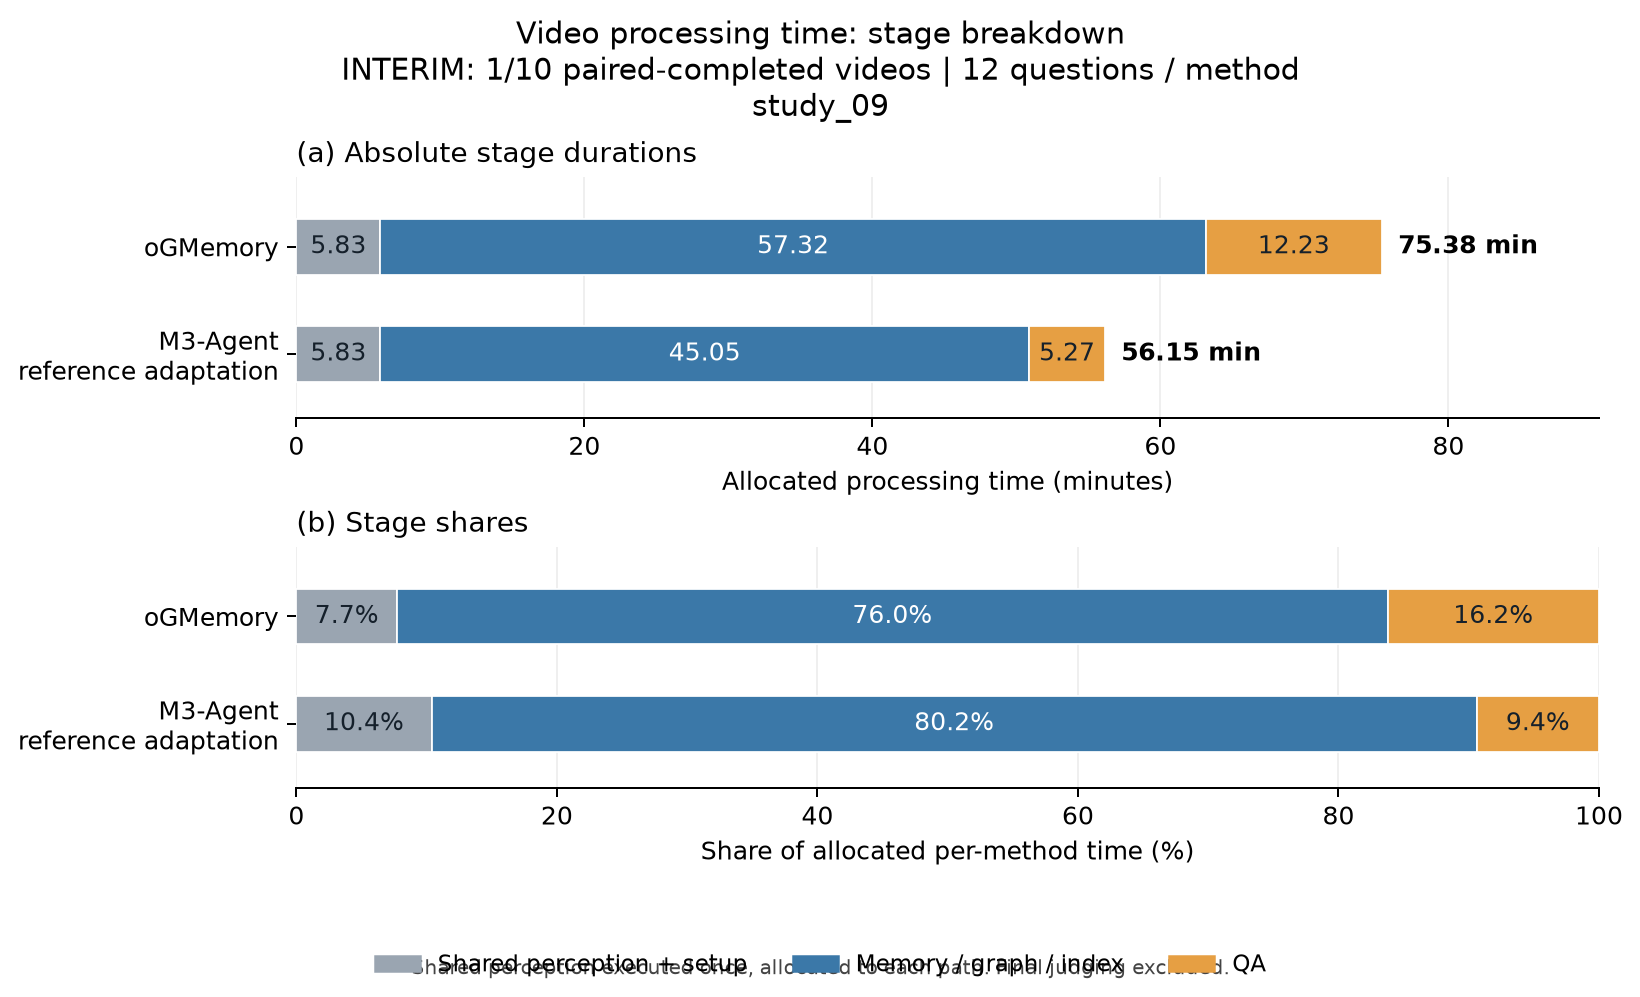
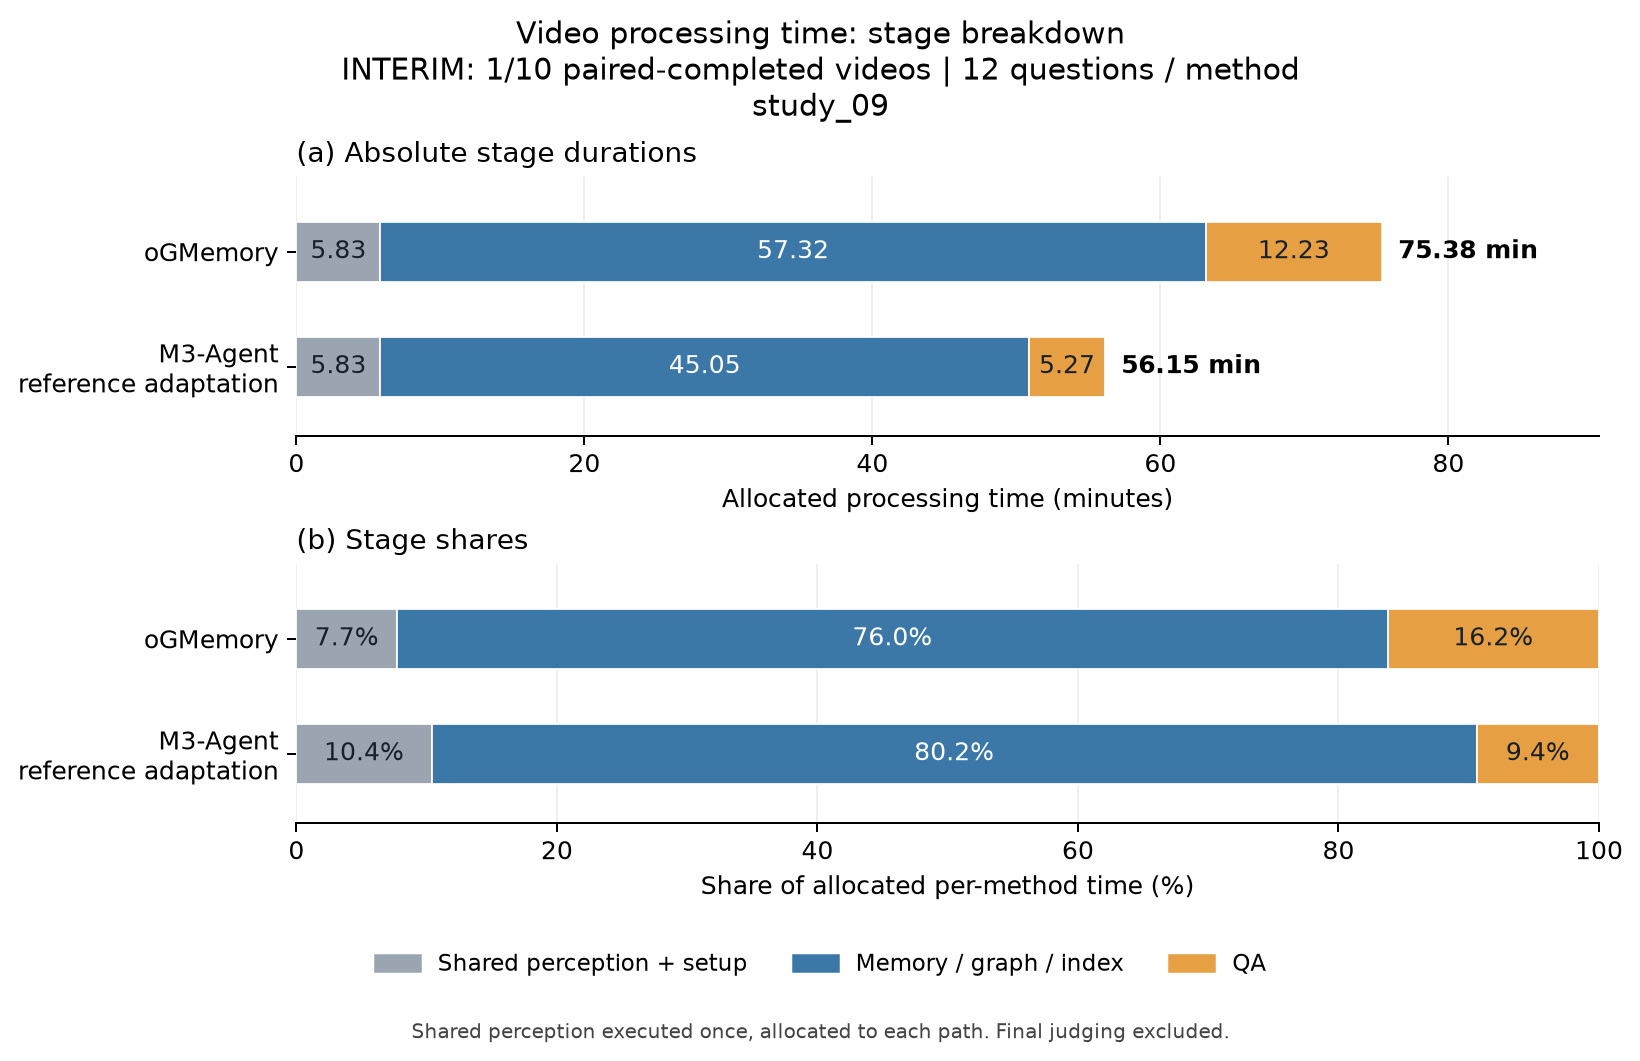
fix(report): separate timing legend from accounting note

diff --git a/scripts/plot_m3_stage_times.py b/scripts/plot_m3_stage_times.py
@@ -148,7 +148,7 @@ def plot(data, prefix):
     scope = f"{data['status'].upper()}: {count}/{data['planned_videos']} paired-completed videos | {data['questions_per_method']} questions / method"
     if count <= 2:
         scope += '\n' + ', '.join(data['selected_videos'])
-    fig, axes = plt.subplots(2, 1, figsize=(9.0, 5.4), gridspec_kw={'height_ratios': [1, 1]}, layout='constrained')
+    fig, axes = plt.subplots(2, 1, figsize=(9.0, 5.8), gridspec_kw={'height_ratios': [1, 1]}, layout='constrained')
     max_total = max(data['totals_seconds'][m]['allocated_total'] / 60 for m in METHODS)
     for ax, percent in zip(axes, (False, True)):
         for row, method in enumerate(METHODS):
@@ -173,9 +173,9 @@ def plot(data, prefix):
         ax.spines[['top', 'right', 'left']].set_visible(False)
     fig.suptitle('Video processing time: stage breakdown\n' + scope, fontsize=12)
     fig.legend(handles=[Patch(color=c, label=l) for c, l in zip(colors, labels)],
-               loc='outside lower center', ncols=3, frameon=False, fontsize=9)
-    fig.get_layout_engine().set(rect=(0, .055, 1, .945))
-    fig.text(.5, .008, 'Shared perception executed once, allocated to each path. Final judging excluded.',
+               loc='lower center', bbox_to_anchor=(.5, .055), ncols=3, frameon=False, fontsize=9)
+    fig.get_layout_engine().set(rect=(0, .14, 1, .86))
+    fig.text(.5, .015, 'Shared perception executed once, allocated to each path. Final judging excluded.',
              ha='center', fontsize=8, color='#444444')
     prefix.parent.mkdir(parents=True, exist_ok=True)
     for ext in ('pdf', 'png'):
